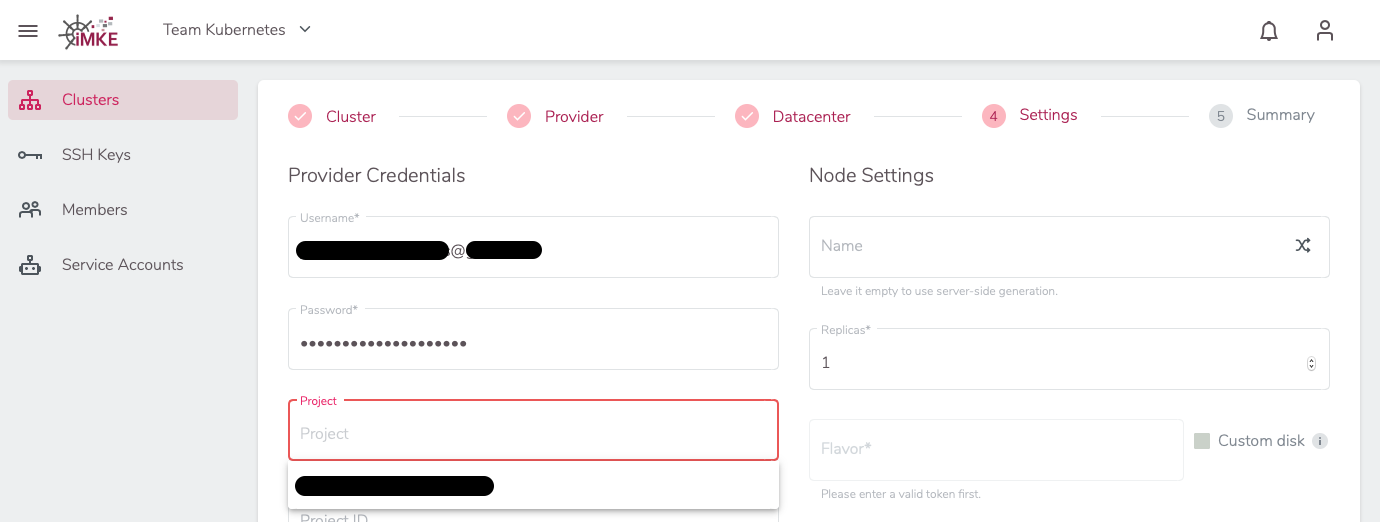
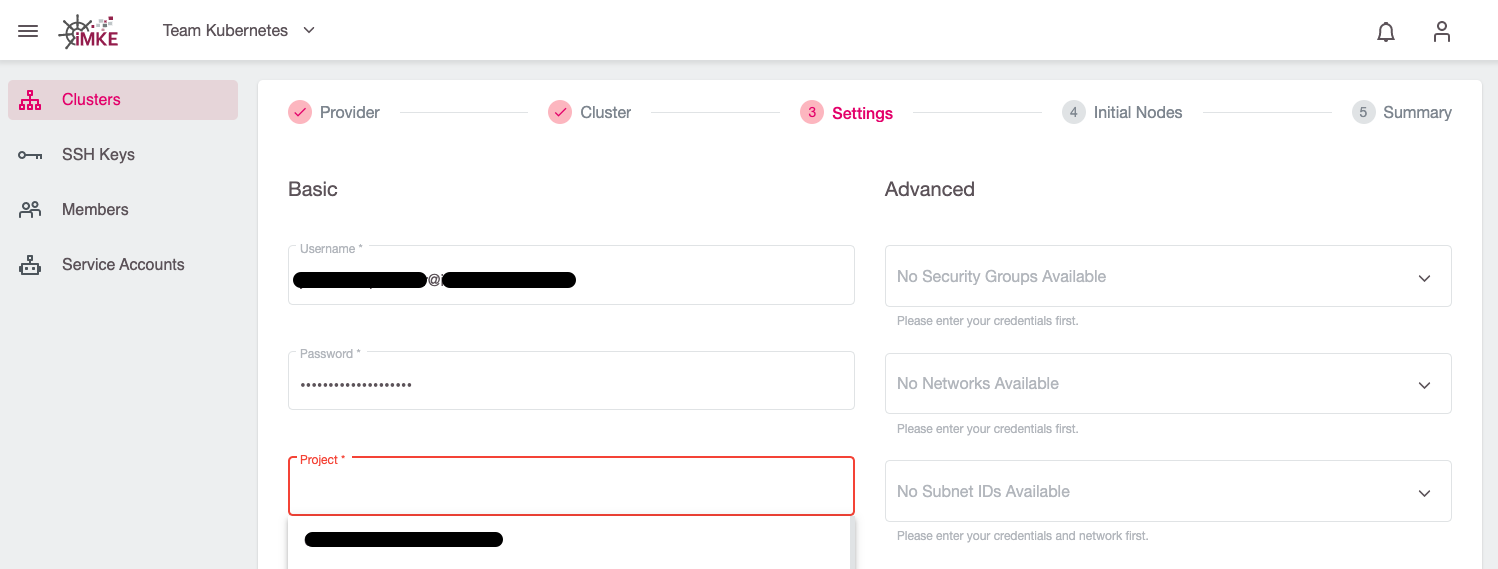
Update cluster-creation documentation

diff --git a/docs/_imke/clusterlifecycle/creatingacluster/index.de.md b/docs/_imke/clusterlifecycle/creatingacluster/index.de.md
@@ -11,68 +11,73 @@ Doch bevor wir dies tun können, benötigen wir ein Projekt.
 
 Wenn Sie noch kein Projekt erstellt haben, [erstellen Sie bitte zuerst ein Projekt](/imke/managingprojects/creatingaproject).
 
-Um einen Cluster anzulegen, klicken wir oben rechts auf `Add Cluster`.
+Um einen Cluster anzulegen, klicken wir im gewünschten Projekt oben rechts auf `Add Cluster`.
 ![Add Cluster](projectview_addcluster.png)
 
 Jetzt öffnet sich die erste Seite für den Prozess, einen Cluster anzulegen.
-Im Beispiel nennen wir unseren Cluster `first-system` und wählen die Kubernetes
-Version 1.18.6 aus:
+Dazu wählen wir den Provider `openstack` und eine der drei Verfügbarkeitszonen aus, in diesem Beispiel
+nehmen wir `IX2`:
 ![Add Cluster Step 1](add_step1.png)
 
-Wir klicken dann auf `Next` und im nächsten Schritt wählen wir den Provider
-`openstack` und eine der drei Verfügbarkeitszonen aus, in diesem Beispiel
-nehmen wir `IX1`:
-![Add Cluster Step 2.1](add_step2_1.png) ![Add Cluster Step 2.2](add_step2_2.png)
+Im nächsten Schritt konfigurieren wir die Cluster-Details. Im unserem Beispiel nennen wir das Cluster `first-system` und
+wählen die gwünschte Kubernetes-Version aus:
+![Add Cluster Step 2](add_step2.png)
 
-Damit iMKe in der OpenStack Plattform die notwendigen Ressourcen erzeugen kann,
-geben wir hier erneut unsere Zugangsdaten ein. Danach wird der Inhalt in `Project`
-automatisch aktualisiert und wir können unser gewünschtes OpenStack Projekt
+Für den gelegentlichen SSH-Zugriff auf Worker-Nodes können wir optional einen öffentlichen SSH-Schlüssel hinterlegen.
+Zum Hinzufügen eines SSH-Keys klicken wir auf `Add SSH Key`:
+![Add Cluster Step 2.2](add_step2_2.png)
+
+In dem sich öffnenden Dialog können wir dann unseren SSH Public Key eintragen
+und ihm einen passenden Namen geben:
+![Add Cluster Step 2.3](add_step2_3.png)
+
+Damit iMKe in der OpenStack-Infrastruktur die notwendigen Ressourcen erzeugen kann,
+geben wir im nächsten Schritt unsere Zugangsdaten ein. Danach wird der Inhalt im Feld `Project`
+automatisch aktualisiert und wir können in der Dropdownliste unser gewünschtes OpenStack Projekt
 auswählen:
 ![Add Cluster Step 3.1](add_step3.png)
 ![Add Cluster Step 3.2](add_step3_2.png)
 
-Man kann ein existierendes Netzwerk verwenden, um den Cluster zu erstellen. Dazu müssen wir das Netzwerk und das Subnetz auswählen.
-Diese müssen mit einem Router verbunden sein.
-Also man soll einen Router erstellen, was auf dem Optimist Dashboard oder aus der OpenStack Kommandozeile durchgeführt werden kann.
-Hierfür kann man die OpenStack Dokumentation nutzen, um den Router zu erstellen und das Netzwerk zu verbinden. (</optimist/guided_tour/step10/>)
+Mit dem Hinzufügen der Credentials und dem Auswählen des OpenStack-Projekts sind alle
+notwendigen Eingaben getätigt, so dass wir mit dem nächsten Schritt fortfahren können. Wenn wir das tun,
+wird automatisch ein eigenes Netzwerk, Subnet sowie eine Securitygruppe für das neue Cluster erstellt.
+
+Es ist allerdings auch möglich, ein existierendes Netzwerk verwenden, um den Cluster zu erstellen.
+Dazu müssen wir das Netzwerk und das Subnetz auswählen. Diese müssen allerdings mit einem Router verbunden sein.
+In unserer [OpenStack Dokumentation](/optimist/guided_tour/step10/) ist beschrieben, wie man einen Router erstellen 
+und mit einem Netzwerk verbinden kann.
 ![Add Cluster Network](create-cluster-network-exist.png)
 
-In den Node Settings konfigurieren wir, wie viele Server später im Kubernetes Cluster
-als Nodes verwendet werden können. Diese Gruppe von Servern braucht einen Namen und
-eine Größe. Für den ersten Cluster sind genaue Namen nicht so wichtig, deswegen benutzen
-wir den Namensgenerator. Die Anzahl und Größe der Server belassen wir auf den
-Standardwerten.
+Im nächsten Schritt definieren wir, wieviele und welche virtuelle Maschinen als Worker-Nodes im Cluster verfügbar
+sein sollen.
+
+Zuerst geben wir dem so genannten `Node Deployment` einen Namen. Für unser Testcluster nutzen wir dazu den Namensgenerator:
 ![Add Cluster Step 4](add_step4.png)
 
-Als Image entscheiden wir uns für Flatcar Linux. Flatcar Linux ist
-speziell für den Betrieb von Containern gedacht und wird durch iMKE
-automatisch aktualisiert.
+Danach spezifieren wir die `Replicas` (Anzahl der Worker-Nodes im Kubernetes-Cluster) und den `Flavor` (den Maschinentyp), welcher
+im wesentlichen die Anzahl der verfügbaren CPU-Kerne und des RAMs bestimmt:
+![Add Cluster Step 4.2](add_step4_2.png)
+
+Weiterhin wählen wir `Ubuntu` als Betriebssystem für die Worker-Nodes:
+![Add Cluster Step 4.3](add_step4_3.png)
+
+Über einen Klick auf `Next` gelangen wir zum letzten Schritt, wo wir noch einmal alle Einstellungen verifizieren und mittels `Create`
+die Cluster-Erstellung starten können:
 ![Add Cluster Step 5](add_step5.png)
 
-Für den SSH Zugriff müssen wir unseren öffentlichen SSH-Schlüssel hinterlegen sowie "Floating IP" aktivieren. Zum Hinzufügen eines SSH-Keys klicken wir auf `Add SSH Key` und tragen in dem Dialog der sich öffnet unseren SSH Public Key ein
-und geben ihm einen passenden Namen:
-![Add Cluster Step 6](add_step6.png)
-![Add Cluster Step 6.2](add_step6_2.png)
-
-Zum Schluss klicken wir wieder auf `Next` und nachdem wir alle Informationen
-noch einmal geprüft haben auf `Create`.
-![Add Cluster Step 7](add_step7.png)
-
 Nun wird das Cluster erstellt. Um auf die Informationen zugreifen zu können müssen
-wir nun wieder auf die Cluster-Übersicht des Projektes und dort auf unser Cluster
-schicken.
-![Add Cluster Step 8](add_step8.png)
-![Add Cluster Step 8.2](add_step8_2.png)
+wir nun wieder auf die Cluster-Übersicht des Projektes und dort unser Cluster auswählen:
+![Add Cluster Step 6](add_step6.png)
+
+Nach der Auswahl unseres Cluster kommen wir nun auf die Seite mit allen Cluster-Details:
+![Add Cluster Step 6.2](add_step6_2.png)
 
 ## Zusammenfassung
 
 Folgende Schritte wurden erfolgreich durchgeführt und gelernt:
 
-* Was ist ein Projekt in iMKE
-* Wie legt man ein Projekt in iMKE an
 * Was ist ein iMKE Cluster
-* Wie konfiguriert man ein iMKE Cluster
-* Wie startet man ein iMKE Cluster
+* Wie erstellt man ein iMKE Cluster
 
 Herzlichen Glückwunsch! Dies sind alle notwendigen Steps um ein Kubernetes Cluster
 in iMKE anzulegen. Wie dieses verwendet werden kann steht auf den nächsten Seiten.

diff --git a/docs/_imke/clusterlifecycle/creatingacluster/index.en.md b/docs/_imke/clusterlifecycle/creatingacluster/index.en.md
@@ -14,13 +14,21 @@ So if you don't have a project yet, [create a project first](/imke/managingproje
 To create the cluster, we click on `Add Cluster` in the top right corner:
 ![Add Cluster](projectview_addcluster.png)
 
-This opens the first page of the Cluster Creation procedure. In the example,
-we call our Cluster `first-system` and select Kubernetes version 1.18.6:
+This opens the first page of the Cluster Creation procedure.
+We choose the provider `openstack` and one of the three
+datacenters. In this example, we pick `IX2`:
 ![Add Cluster Step 1](add_step1.png)
 
-Then we click `Next` and choose the provider `openstack` and one of the three
-availability zones. In this example, we pick `IX1`:
-![Add Cluster Step 2.1](add_step2_1.png) ![Add Cluster Step 2.2](add_step2_2.png)
+In the next step, we have to configure the cluster details. In the example,
+we call our Cluster `first-system` and select the desired Kubernetes version:
+![Add Cluster Step 2](add_step2.png)
+
+For occassional SSH access to worker nodes, we need can optionally deploy an SSH Key.
+To add an SSH-Key, we click on `Add SSH key`:
+![Add Cluster Step 2.2](add_step2_2.png)
+
+After that we can add the SSH Public Key and give it a memorable name:
+![Add Cluster Step 2.3](add_step2_3.png)
 
 To allow iMKE to request the required resources from OpenStack, we add our
 OpenStack credentials now. After that, the contents of `Project` is refreshed
@@ -29,44 +37,45 @@ in:
 ![Add Cluster Step 3.1](add_step3.png)
 ![Add Cluster Step 3.2](add_step3_2.png)
 
-We can use an existing network to create the cluster. At this point, we must select the network and the subnet.
-Those must be attached to a router.
-So you have to create a router, this can be done from the Optimist Dashboard or from the OpenStack command line.
-We can use our OpenStack documentation to create the router and attach it. (</optimist/guided_tour/step10/>)
+By adding the credentials and selecting the OpenStack project, we could proceed to the next
+step. If we do so, a new and dedicated network, subnet and security group will be created for the cluster
+automatically.
+
+It is also possible to use an **existing** network to create the cluster. For this to work, we have to select
+the network and the subnet from the dropdown menu. Those must be attached to a router.
+Creating a router can be done from the Optimist Dashboard or from the OpenStack command line.
+Please refer to our [OpenStack documentation](/optimist/guided_tour/step10/) for details how to create the router and attach it.
 ![Add Cluster Network](create-cluster-network-exist.png)
 
-In Node Settings we define how many virtual machines will be available as worker nodes
-in the cluster. This node deployment needs a name and a size. For the first cluster
-the name is not super important, so we use the random name generator. We use the
-defaults for the number and size of the machines.
+In the next step, we define how many and what kind of virtual machines will be initially available as worker nodes
+in the cluster.
+
+First, this so called `Node Deployment` needs a name. For our test cluster we use the random name generator:
 ![Add Cluster Step 4](add_step4.png)
 
-We choose Flatcar Linux as the image. Flatcar Linux is designed to run containers
-and will automatically be updated by iMKE.
-![Add Cluster Step 5](add_step5.png)
+Next, we should specify the `Replicas` (number of worker nodes in your Kubernetes cluster) and the `Flavor` (machine type), which 
+defines the amount of CPU and RAM for each worker node:
+![Add Cluster Step 4.2](add_step4_2.png)
 
-For occassional SSH access, we need to deploy an SSH Key and to assign a Floating IP to each Worker-Node.
-To add an SSH-Key, we click on `Add SSH Key`, enter an SSH Public Key, and give it a memorable name:
-![Add Cluster Step 6](add_step6.png)
-![Add Cluster Step 6.2](add_step6_2.png)
+We choose `Ubuntu` as the operating system for the worker nodes:
+![Add Cluster Step 4.3](add_step4_3.png)
 
 To finish, we click on `Next`. After we verified all settings, we click on `Create`.
-![Add Cluster Step 7](add_step7.png)
+![Add Cluster Step 5](add_step5.png)
 
 Now the cluster is being created. To access the information, we return to the Cluster
-view of the project and click our Cluster's name.
-![Add Cluster Step 8](add_step8.png)
-![Add Cluster Step 8.2](add_step8_2.png)
+view of the project and click our Cluster's name:
+![Add Cluster Step 6](add_step6.png)
+
+This will open a page with all cluster details:
+![Add Cluster Step 6.2](add_step6_2.png)
 
 ## Summary
 
 In this guide, we achieved and learnt the following:
 
-* What is an iMKE Project
-* How to create an iMKE Project
 * What is an iMKE Cluster
-* How to configure an iMKE Cluster
-* How to start an iMKE Cluster
+* How to create an iMKE Cluster
 
 Congratulations! Now you know how to create a Kubernetes Cluster with iMKE.
 The following pages describe cluster usage examples.
